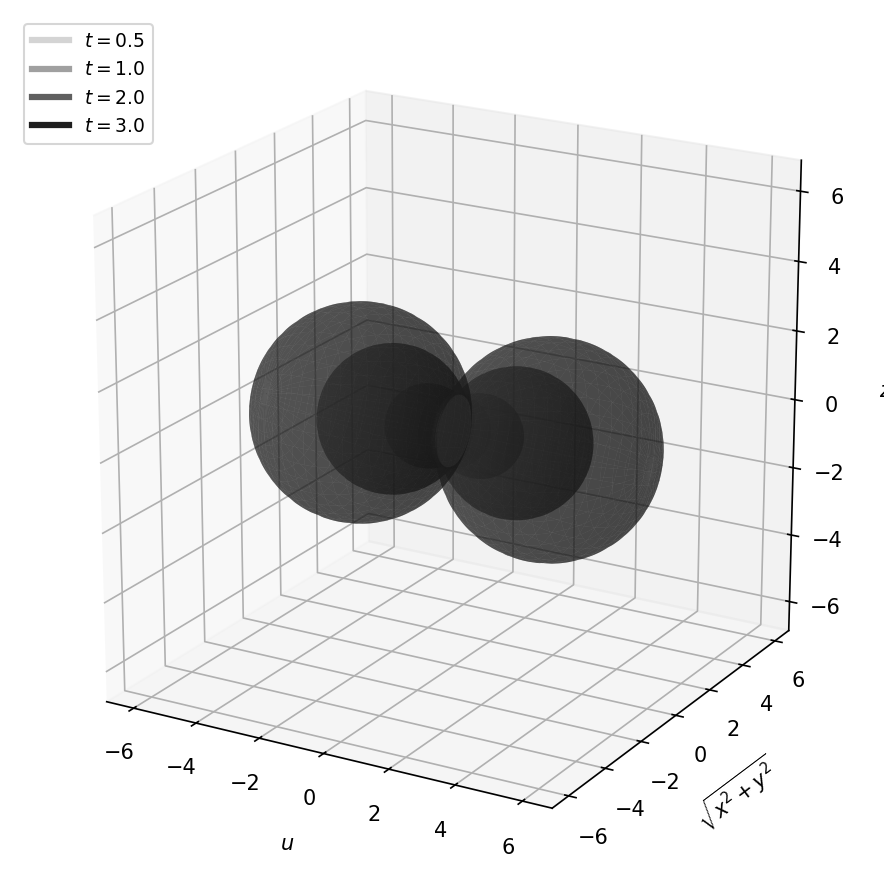
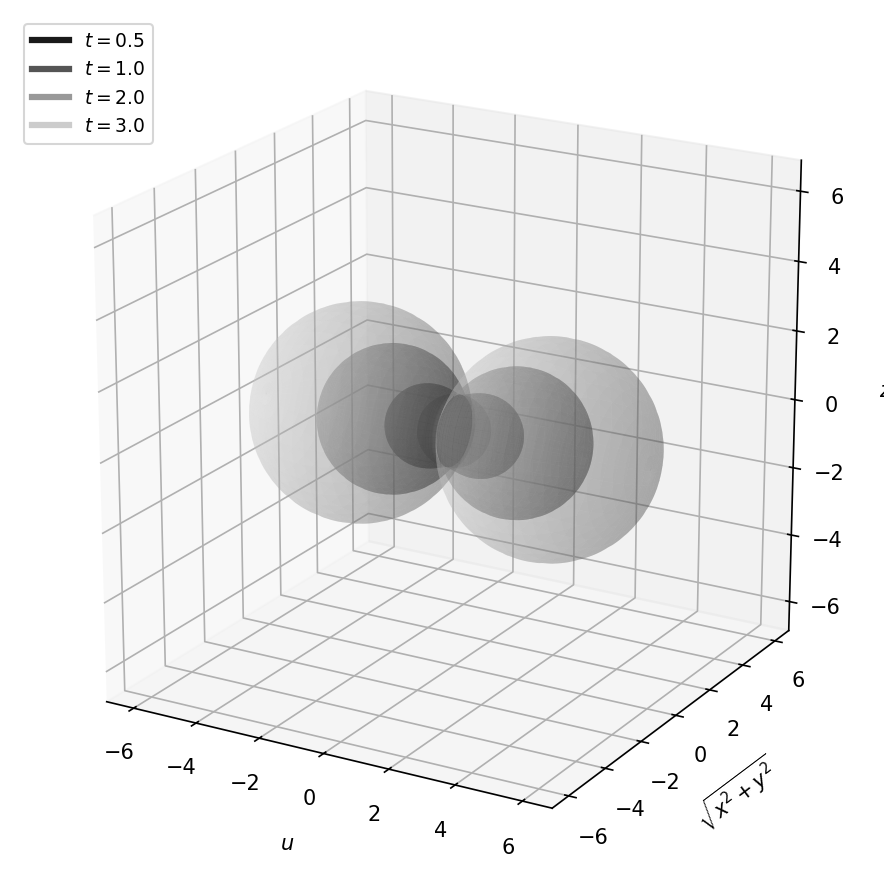
Fix Fig 1: remove embedded title, equal axes, grayscale opacity gradient
- Remove ax.set_title (title belongs in LaTeX \caption, not inside the figure)
- Equal physical scale on all three axes via set_box_aspect([1,1,1]) plus
  explicit equal limits, so t=0.5 sphere looks spherical and bilobed outer
  surfaces are proportional
- Grayscale sequential palette: inner surfaces dark and opaque, outer
  surfaces light and translucent, so all four t values remain visible

Changed region(s): [[0.2749, 0.3356, 0.7636, 0.6407], [0.0305, 0.0305, 0.0916, 0.1525]]

diff --git a/scripts/hippopede_growth_3d.py b/scripts/hippopede_growth_3d.py
@@ -21,8 +21,10 @@ FIGURES.mkdir(exist_ok=True)
 OUT = FIGURES / "hippopede_growth_3d.png"
 
 T_VALUES = [0.5, 1.0, 2.0, 3.0]
-# Sequential grayscale: lightest for innermost surface, darkest for outermost.
-COLORS = ["#d4d4d4", "#a0a0a0", "#606060", "#1e1e1e"]
+# Grayscale + alpha: outer surfaces are pale and translucent so the
+# inner (darker, more opaque) surfaces remain visible inside them.
+COLORS = ["#1a1a1a", "#555555", "#999999", "#cccccc"]
+ALPHAS = [0.80, 0.60, 0.40, 0.25]
 
 CHI = np.linspace(0, np.pi, 300)
 PHI = np.linspace(0, 2 * np.pi, 120)
@@ -41,9 +43,9 @@ def hippopede_surface(t: float) -> tuple[np.ndarray, np.ndarray, np.ndarray]:
 fig = plt.figure(figsize=(7, 6))
 ax = fig.add_subplot(111, projection="3d")
 
-for t_val, color in zip(T_VALUES, COLORS):
+for t_val, color, alpha in zip(T_VALUES, COLORS, ALPHAS):
     u, y_ax, z_ax = hippopede_surface(t_val)
-    ax.plot_surface(u, y_ax, z_ax, color=color, alpha=0.50, linewidth=0, antialiased=True)
+    ax.plot_surface(u, y_ax, z_ax, color=color, alpha=alpha, linewidth=0, antialiased=True)
     ax.plot([], [], [], color=color, lw=3, label=f"$t={t_val}$")
 
 ax.set_xlabel("$u$", labelpad=8)
